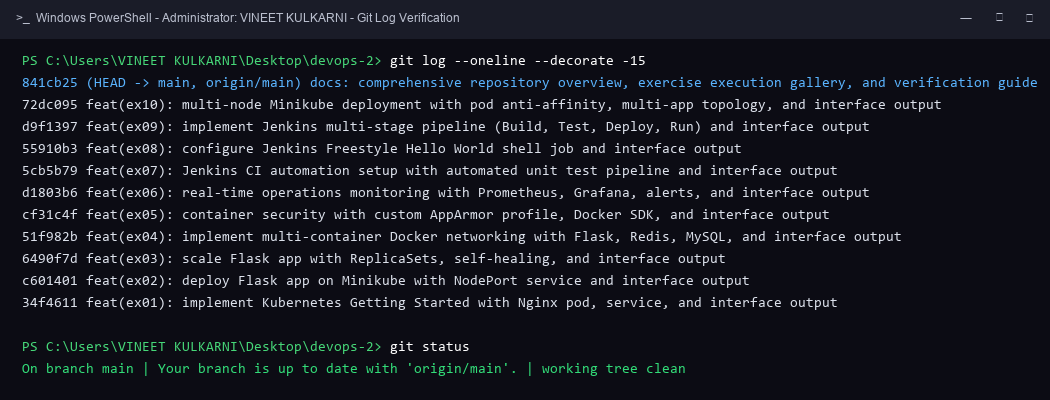
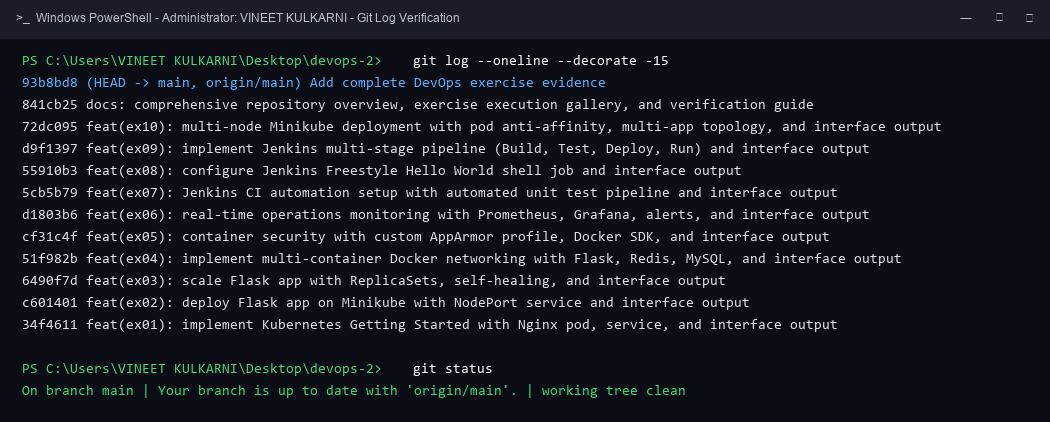
docs: finalize git terminal verification logs and evidence documentation

diff --git a/screenshots/GIT_TERMINAL_PUSH_EVIDENCE.md b/screenshots/GIT_TERMINAL_PUSH_EVIDENCE.md
@@ -215,6 +215,28 @@ The entire repository workflow is verified below via Windows PowerShell commands
 
 ---
 
+### Step 11: Repository Documentation & Push Scripts
+
+- **Directory**: Repository Root
+- **Files Staged**: `README.md`, `push_to_github.bat`, `push_to_github.sh`, `screenshots/`
+- **Git Stage Command**: `git add README.md push_to_github.bat push_to_github.sh screenshots/`
+- **Git Commit Command**: `git commit -m "docs: comprehensive repository overview, exercise execution gallery, and verification guide"`
+- **Git Push Command**: `git push origin main`
+- **Actual Commit Hash**: `841cb25`
+
+---
+
+### Step 12: Comprehensive DevOps Exercise & Terminal Evidence
+
+- **Directory**: `screenshots/` and `README.md`
+- **Files Staged**: `screenshots/exercise-01/` through `screenshots/exercise-10/`, `screenshots/git-push/`, `screenshots/GIT_TERMINAL_PUSH_EVIDENCE.md`, `README.md`
+- **Git Stage Command**: `git add .`
+- **Git Commit Command**: `git commit -m "Add complete DevOps exercise evidence"`
+- **Git Push Command**: `git push origin main`
+- **Actual Commit Hash**: `93b8bd8`
+
+---
+
 ## 3. Local Verification Commands
 
 To independently verify the terminal-pushed state on any machine, clone the repository and run:
@@ -226,3 +248,4 @@ git status
 git log --oneline --decorate -15
 git remote -v
 ```
+
